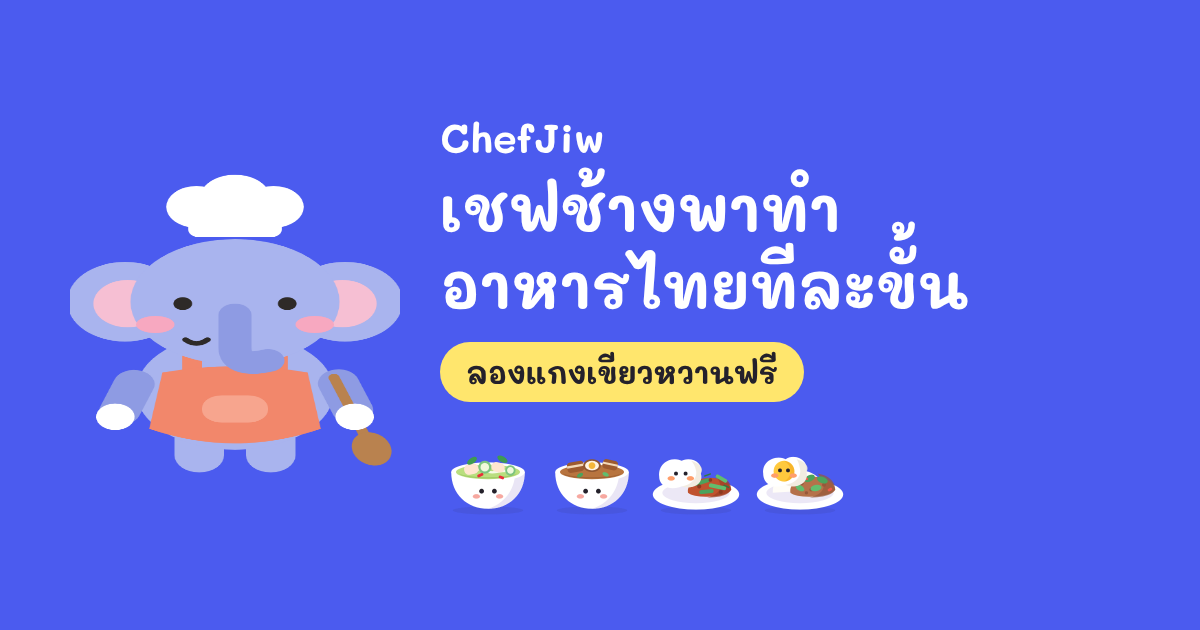
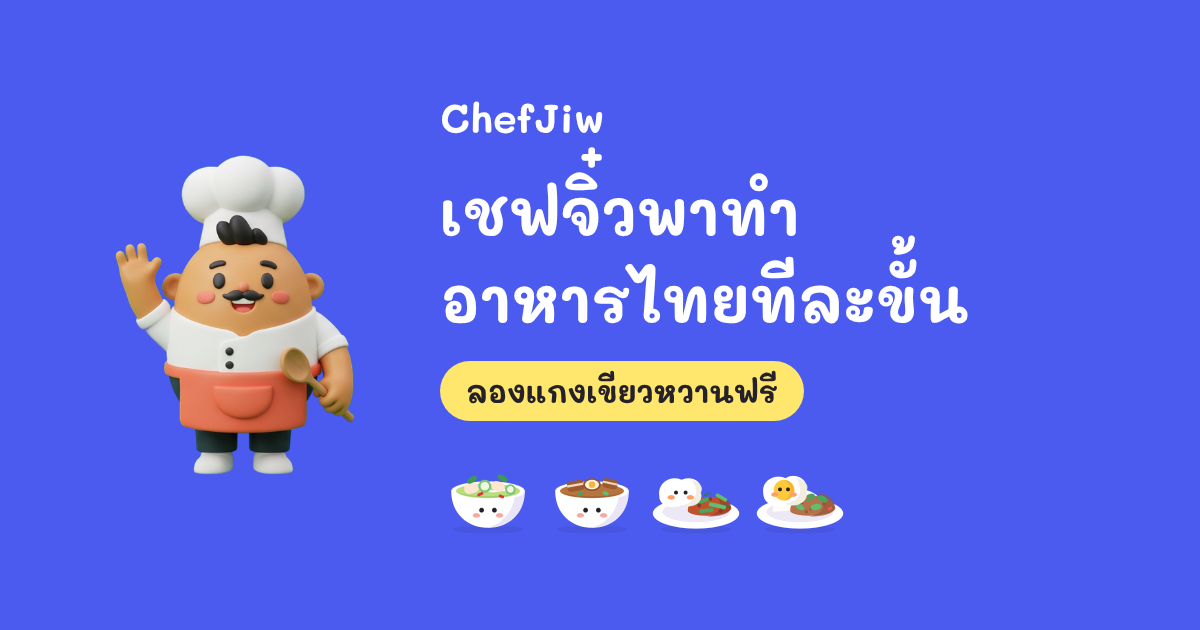
Replace the mascots with Chef Jiw, a 3D chef with six poses
The flat elephant sat in every screen header as decoration. The new
character is an original round 3D chef with one pose per moment: waving on
the home screen and onboarding, cheering when a timer ends or a dish is
finished, thinking while an answer loads, worried on errors, and tasting on
the score screen. Other headers no longer carry a mascot. The chef is
renamed from Chef Elephant to Chef Jiw across the app, the ask function's
prompt (redeployed) and the waitlist page, and the taster mouse is folded
into the same character.

Claude-Session: https://claude.ai/code/session_01YRit4BDrXmu1xBXH17a6cf

diff --git a/src/lib/i18n.ts b/src/lib/i18n.ts
@@ -5,7 +5,7 @@ export type L = { th: string; en: string };
 const th = {
   'tab.home': 'ร้าน', 'tab.recipes': 'สูตร', 'tab.cook': 'ทำอาหาร', 'tab.me': 'ฉัน',
   'home.title': 'ร้านของทีมเชฟ', 'home.today': 'เมนูแนะนำวันนี้', 'home.resume': 'ทำต่อจากที่ค้างไว้',
-  'home.resumeStep': 'ทำถึงขั้นที่ {n} จาก {total}', 'home.cooked': 'เมนูที่ทำแล้ว', 'home.next': 'อีกบทพูด', 'home.chef': 'เชฟช้าง',
+  'home.resumeStep': 'ทำถึงขั้นที่ {n} จาก {total}', 'home.cooked': 'เมนูที่ทำแล้ว', 'home.next': 'อีกบทพูด', 'home.chef': 'เชฟจิ๋ว',
   'recipes.title': 'วันนี้ทำอะไรดี?', 'recipes.sample': 'ราคาและแคลอรี่เป็นตัวเลขตัวอย่าง',
   'recipes.search': 'ค้นหาเมนู เช่น กะเพรา', 'recipes.all': 'ทั้งหมด', 'recipes.fast': 'ไม่เกิน 15 นาที',
   'recipes.cheap': 'ไม่เกิน {price}', 'recipes.light': 'แคลน้อย', 'recipes.count': 'ทำได้เลย {ready} เมนู · กำลังจะมา {soon} เมนู',
@@ -21,16 +21,16 @@ const th = {
   'cook.back': 'ย้อนงานก่อนหน้า', 'cook.see': 'สังเกต', 'cook.lesson': 'ทำแล้วได้อะไร', 'cook.gather': 'ของที่ต้องใช้',
   'cook.timer': 'จับเวลา', 'cook.timerStart': 'เริ่มจับเวลา {t}', 'cook.timerLeft': 'เหลือ {t}', 'cook.timerDone': 'ครบเวลาแล้ว ดูว่าได้ที่หรือยัง',
   'cook.timerNotify': 'ครบเวลาแล้ว', 'cook.heat0': 'ปิดไฟ', 'cook.heat1': 'ไฟอ่อน', 'cook.heat2': 'ไฟกลาง', 'cook.heat3': 'ไฟแรง',
-  'cook.exitTitle': 'ออกจากครัวก่อนไหม?', 'cook.exitBody': 'เชฟช้างจะจำไว้ว่าทำถึงไหน ตัวจับเวลาที่เริ่มไว้ยังเดินต่อ ระหว่างนี้ไปทำจานอื่นได้',
+  'cook.exitTitle': 'ออกจากครัวก่อนไหม?', 'cook.exitBody': 'เชฟจิ๋วจะจำไว้ว่าทำถึงไหน ตัวจับเวลาที่เริ่มไว้ยังเดินต่อ ระหว่างนี้ไปทำจานอื่นได้',
   'cook.exitStay': 'ทำต่อเลย', 'cook.exitLeave': 'ออกจากครัว', 'cook.close': 'ออกจากครัว',
-  'ask.title': 'ถามเชฟช้าง', 'ask.often': 'คำถามที่คนมักถามตอนทำขั้นนี้', 'ask.back': 'กลับไปทำต่อ',
+  'ask.title': 'ถามเชฟจิ๋ว', 'ask.often': 'คำถามที่คนมักถามตอนทำขั้นนี้', 'ask.back': 'กลับไปทำต่อ',
   'ask.emergency': 'เหตุฉุกเฉินในครัว',
-  'taste.title': 'นักชิมหนูจี๊ดขอชิมหน่อย', 'taste.intro': 'หนูจี๊ดชิมผ่านจอไม่ได้ เลยจะถามคุณ 3 ข้อ แล้วให้คะแนนพร้อมคำแนะนำ',
-  'taste.submit': 'ให้หนูจี๊ดให้คะแนน', 'taste.result': 'นักชิมหนูจี๊ดให้คะแนน', 'taste.outOf': 'เต็ม 5',
+  'taste.title': 'เชฟจิ๋วขอชิมหน่อย', 'taste.intro': 'เชฟจิ๋วชิมผ่านจอไม่ได้ เลยจะถามคุณ 3 ข้อ แล้วให้คะแนนพร้อมคำแนะนำ',
+  'taste.submit': 'ดูคะแนน', 'taste.result': 'เชฟจิ๋วให้คะแนน', 'taste.outOf': 'เต็ม 5',
   'taste.again': 'ทำเมนูอื่นต่อ', 'taste.home': 'กลับหน้าร้าน', 'taste.good': 'ดีแล้ว: {text}',
   'cookTab.title': 'ทำอาหาร', 'cookTab.pick': 'เลือกเมนูที่จะทำ', 'cookTab.hint': 'ระหว่างทำ หน้าจอจะไม่ดับเอง และปุ่มใหญ่กดง่ายแม้มือเปื้อน',
   'me.title': 'ครัวของฉัน', 'me.cooked': 'เมนูที่ทำแล้ว', 'me.avg': 'คะแนนเฉลี่ย', 'me.recent': 'ทำล่าสุด',
-  'me.none': 'ยังไม่ได้ทำเมนูไหน ทำเสร็จแล้วคะแนนจากนักชิมหนูจี๊ดจะมาอยู่ตรงนี้', 'me.settings': 'ตั้งค่า',
+  'me.none': 'ยังไม่ได้ทำเมนูไหน ทำเสร็จแล้วคะแนนจากเชฟจิ๋วจะมาอยู่ตรงนี้', 'me.settings': 'ตั้งค่า',
   'me.lang': 'ภาษา', 'me.country': 'ประเทศและสกุลเงิน', 'me.countryHint': 'ใช้กับราคาและเมนูแนะนำ', 'me.dark': 'โหมดมืด',
   'me.darkSystem': 'ตามเครื่อง', 'me.stars': '{n} ดาว',
   'country.TH': 'ไทย', 'country.JP': 'ญี่ปุ่น', 'country.US': 'สหรัฐฯ',
@@ -40,7 +40,7 @@ const th = {
   'err.notConfigured': 'ยังไม่ได้เชื่อมระบบ', 'err.notConfiguredBody': 'แอปเวอร์ชันนี้ยังไม่ได้ต่อ backend ส่วนนี้จะใช้ได้เมื่อตั้งค่าเซิร์ฟเวอร์แล้ว',
   'ob.skip': 'ข้าม', 'ob.next': 'ถัดไป', 'ob.back': 'ย้อนกลับ', 'ob.count': '{n} จาก {total}',
   'ob.langTitle': 'เลือกภาษาและประเทศ', 'ob.countryNote': 'ประเทศใช้กับสกุลเงินของราคาและเมนูแนะนำ เปลี่ยนทีหลังได้ในหน้าฉัน',
-  'ob.t1': 'เชฟช้างพาทำทีละขั้น', 'ob.b1': 'บอกว่าตอนนี้ต้องทำอะไร ใช้ไฟแรงแค่ไหน และจับเวลาให้ ไม่ต้องอ่านสูตรยาวๆ หน้าเตา',
+  'ob.t1': 'เชฟจิ๋วพาทำทีละขั้น', 'ob.b1': 'บอกว่าตอนนี้ต้องทำอะไร ใช้ไฟแรงแค่ไหน และจับเวลาให้ ไม่ต้องอ่านสูตรยาวๆ หน้าเตา',
   'ob.t2': 'ติดตรงไหน ถามเชฟได้เลย', 'ob.b2': 'ปุ่มถามเชฟอยู่ที่เดิมทุกขั้น พิมพ์ถามเองฟรีวันละ {n} คำถาม และยังไม่ต้องเข้าสู่ระบบจนกว่าจะพิมพ์ถามครั้งแรก',
   'ob.example': 'ตัวอย่าง: "กระเทียมไหม้แล้ว ทำยังไงต่อ"', 'ob.pickTitle': 'เริ่มจากเมนูไหนดี', 'ob.pickBody': 'สองเมนูนี้ทำตามในแอปได้ครบทุกขั้น',
   'ob.start': 'เริ่มทำเมนูแรก', 'ob.browse': 'ดูสูตรทั้งหมดก่อน', 'ob.picked': 'เลือกแล้ว',
@@ -55,9 +55,9 @@ const th = {
   'pay.priceMonthly': '[ราคารายเดือน]', 'pay.priceYearly': '[ราคารายปี]', 'pay.start': 'เริ่มเป็นสมาชิก{plan}', 'pay.busy': 'กำลังดำเนินการ',
   'pay.restore': 'คืนค่าการซื้อ', 'pay.note': 'ต่ออายุอัตโนมัติ ยกเลิกได้ทุกเมื่อในการตั้งค่าของร้านแอป ไม่สมัครก็ทำเมนูที่ค้างอยู่ต่อจนจบได้',
   'pay.done': 'เป็นสมาชิกแล้ว', 'pay.doneBody': 'ถามเชฟได้ไม่จำกัดตั้งแต่ตอนนี้', 'pay.back': 'กลับไปทำอาหารต่อ', 'pay.period': 'รอบการจ่าย',
-  'ask.typeLabel': 'พิมพ์ถามเชฟช้าง', 'ask.typePlaceholder': 'พิมพ์ถามเอง', 'ask.send': 'ส่งคำถาม',
-  'ask.left': 'วันนี้พิมพ์ถามเองฟรีได้อีก {n} คำถาม', 'ask.member': 'สมาชิก พิมพ์ถามได้ไม่จำกัด', 'ask.thinking': 'เชฟช้างกำลังคิด',
-  'ask.aiAnswer': 'เชฟช้างตอบ · AI', 'ask.loginTitle': 'เข้าสู่ระบบก่อนพิมพ์ถามเอง', 'ask.loginBody': 'คำถามด้านบนถามได้เลยโดยไม่ต้องเข้าสู่ระบบ',
+  'ask.typeLabel': 'พิมพ์ถามเชฟจิ๋ว', 'ask.typePlaceholder': 'พิมพ์ถามเอง', 'ask.send': 'ส่งคำถาม',
+  'ask.left': 'วันนี้พิมพ์ถามเองฟรีได้อีก {n} คำถาม', 'ask.member': 'สมาชิก พิมพ์ถามได้ไม่จำกัด', 'ask.thinking': 'เชฟจิ๋วกำลังคิด',
+  'ask.aiAnswer': 'เชฟจิ๋วตอบ · AI', 'ask.loginTitle': 'เข้าสู่ระบบก่อนพิมพ์ถามเอง', 'ask.loginBody': 'คำถามด้านบนถามได้เลยโดยไม่ต้องเข้าสู่ระบบ',
   'ask.quotaTitle': 'คำถามฟรีของวันนี้หมดแล้ว', 'ask.quotaBody': 'พรุ่งนี้ถามฟรีได้ใหม่ {n} คำถาม คำตอบที่เตรียมไว้ด้านบนยังเปิดดูได้ และทำเมนูนี้ต่อจนจบได้',
   'ask.seeMember': 'ดูสมาชิก ถามได้ไม่จำกัด', 'ask.aiNote': 'คำตอบจาก AI ยังไม่ผ่านการตรวจโดยเชฟ ถ้าเกี่ยวกับความปลอดภัยให้ดูเหตุฉุกเฉินด้านบน',
   'ai.ideas': 'ให้ AI คิดเมนูจากของที่มี', 'ai.again': 'ให้ AI คิดใหม่อีกรอบ', 'ai.thinking': 'เชฟ AI กำลังคิดเมนู', 'ai.result': 'เมนูที่ AI คิดจากของที่คุณมี',
@@ -79,7 +79,7 @@ const th = {
 const en: typeof th = {
   'tab.home': 'Home', 'tab.recipes': 'Recipes', 'tab.cook': 'Cook', 'tab.me': 'Me',
   'home.title': "The chef team's kitchen", 'home.today': "Today's pick", 'home.resume': 'Pick up where you left off',
-  'home.resumeStep': 'Step {n} of {total}', 'home.cooked': 'Dishes cooked', 'home.next': 'Another line', 'home.chef': 'Chef Elephant',
+  'home.resumeStep': 'Step {n} of {total}', 'home.cooked': 'Dishes cooked', 'home.next': 'Another line', 'home.chef': 'Chef Jiw',
   'recipes.title': "What's cooking?", 'recipes.sample': 'Sample prices and calories',
   'recipes.search': 'Search dishes, e.g. basil pork', 'recipes.all': 'All', 'recipes.fast': 'Up to 15 min',
   'recipes.cheap': 'Up to {price}', 'recipes.light': 'Low calorie', 'recipes.count': 'Ready now: {ready} · coming soon: {soon}',
@@ -95,16 +95,16 @@ const en: typeof th = {
   'cook.back': 'Back to previous task', 'cook.see': 'Look for', 'cook.lesson': 'What that did', 'cook.gather': 'You need',
   'cook.timer': 'Timer', 'cook.timerStart': 'Start timer {t}', 'cook.timerLeft': '{t} left', 'cook.timerDone': "Time's up. Check if it's ready.",
   'cook.timerNotify': "Time's up", 'cook.heat0': 'Heat off', 'cook.heat1': 'Low heat', 'cook.heat2': 'Medium heat', 'cook.heat3': 'High heat',
-  'cook.exitTitle': 'Leave the kitchen?', 'cook.exitBody': 'Chef Elephant will remember your step, and any timer you started keeps running. You can cook another dish meanwhile.',
+  'cook.exitTitle': 'Leave the kitchen?', 'cook.exitBody': 'Chef Jiw will remember your step, and any timer you started keeps running. You can cook another dish meanwhile.',
   'cook.exitStay': 'Keep cooking', 'cook.exitLeave': 'Leave', 'cook.close': 'Leave the kitchen',
-  'ask.title': 'Ask Chef Elephant', 'ask.often': 'Questions people often ask at this step', 'ask.back': 'Back to cooking',
+  'ask.title': 'Ask Chef Jiw', 'ask.often': 'Questions people often ask at this step', 'ask.back': 'Back to cooking',
   'ask.emergency': 'Kitchen emergencies',
-  'taste.title': 'Taster Mouse wants a bite', 'taste.intro': "Mouse can't taste through the screen, so answer 3 questions for a score and tips.",
-  'taste.submit': 'Get my score', 'taste.result': "Taster Mouse's score", 'taste.outOf': 'out of 5',
+  'taste.title': 'Chef Jiw wants a taste', 'taste.intro': "Chef Jiw can't taste through the screen, so answer 3 questions for a score and tips.",
+  'taste.submit': 'Get my score', 'taste.result': "Chef Jiw's score", 'taste.outOf': 'out of 5',
   'taste.again': 'Cook another dish', 'taste.home': 'Back to Home', 'taste.good': 'Nice: {text}',
   'cookTab.title': 'Cook', 'cookTab.pick': 'Pick a dish to cook', 'cookTab.hint': 'While cooking, the screen stays on and the big buttons work even with messy hands.',
   'me.title': 'My kitchen', 'me.cooked': 'Dishes cooked', 'me.avg': 'Average score', 'me.recent': 'Cooked recently',
-  'me.none': "Nothing cooked yet. Taster Mouse's scores will show up here.", 'me.settings': 'Settings',
+  'me.none': "Nothing cooked yet. Chef Jiw's scores will show up here.", 'me.settings': 'Settings',
   'me.lang': 'Language', 'me.country': 'Country and currency', 'me.countryHint': 'Used for prices and suggestions', 'me.dark': 'Dark mode',
   'me.darkSystem': 'Follow device', 'me.stars': '{n} stars',
   'country.TH': 'Thailand', 'country.JP': 'Japan', 'country.US': 'United States',
@@ -114,7 +114,7 @@ const en: typeof th = {
   'err.notConfigured': 'Not connected yet', 'err.notConfiguredBody': 'This build has no backend yet. This part works once the server is set up.',
   'ob.skip': 'Skip', 'ob.next': 'Next', 'ob.back': 'Back', 'ob.count': '{n} of {total}',
   'ob.langTitle': 'Language and country', 'ob.countryNote': 'Your country sets the currency for prices and suggested dishes. Change it later in Me.',
-  'ob.t1': 'Chef Elephant guides each step', 'ob.b1': 'See what to do now, how high the heat should be, and a timer. No long recipe to read at the stove.',
+  'ob.t1': 'Chef Jiw guides each step', 'ob.b1': 'See what to do now, how high the heat should be, and a timer. No long recipe to read at the stove.',
   'ob.t2': 'Stuck? Ask the chef', 'ob.b2': 'The ask button stays in the same place on every step. Type {n} free questions a day, and sign in only when you first type one.',
   'ob.example': 'Example: "My garlic burnt. What now?"', 'ob.pickTitle': 'Pick your first dish', 'ob.pickBody': 'Both dishes have full step-by-step guidance.',
   'ob.start': 'Start cooking', 'ob.browse': 'Browse all recipes first', 'ob.picked': 'Selected',
@@ -129,9 +129,9 @@ const en: typeof th = {
   'pay.priceMonthly': '[monthly price]', 'pay.priceYearly': '[yearly price]', 'pay.start': 'Start membership: {plan}', 'pay.busy': 'Processing',
   'pay.restore': 'Restore purchase', 'pay.note': 'Renews automatically. Cancel any time in your app store settings. You can finish the dish you are cooking without joining.',
   'pay.done': 'You are a member', 'pay.doneBody': 'Ask the chef without limits from now on', 'pay.back': 'Back to cooking', 'pay.period': 'Billing period',
-  'ask.typeLabel': 'Type a question for Chef Elephant', 'ask.typePlaceholder': 'Type your own', 'ask.send': 'Send question',
-  'ask.left': '{n} free typed questions left today', 'ask.member': 'Member: unlimited typed questions', 'ask.thinking': 'Chef Elephant is thinking',
-  'ask.aiAnswer': 'Chef Elephant answers · AI', 'ask.loginTitle': 'Sign in to type your own question', 'ask.loginBody': 'The questions above work without signing in.',
+  'ask.typeLabel': 'Type a question for Chef Jiw', 'ask.typePlaceholder': 'Type your own', 'ask.send': 'Send question',
+  'ask.left': '{n} free typed questions left today', 'ask.member': 'Member: unlimited typed questions', 'ask.thinking': 'Chef Jiw is thinking',
+  'ask.aiAnswer': 'Chef Jiw answers · AI', 'ask.loginTitle': 'Sign in to type your own question', 'ask.loginBody': 'The questions above work without signing in.',
   'ask.quotaTitle': 'Free questions used up for today', 'ask.quotaBody': 'You get {n} more tomorrow. Prepared answers above still work, and you can finish this dish.',
   'ask.seeMember': 'See membership for unlimited', 'ask.aiNote': 'AI answers are not checked by a chef. For safety issues, see Kitchen emergencies above.',
   'ai.ideas': 'Let AI plan dishes from these', 'ai.again': 'Ask the AI again', 'ai.thinking': 'The AI chef is thinking of dishes', 'ai.result': 'Dishes the AI planned from what you have',

diff --git a/waitlist/index.html b/waitlist/index.html
@@ -5,11 +5,11 @@
 <meta name="viewport" content="width=device-width, initial-scale=1">
 <meta name="color-scheme" content="light">
 <meta name="theme-color" content="#4B5BEF">
-<title>ChefJiw: เชฟช้างพาทำอาหารไทยทีละขั้น</title>
+<title>ChefJiw: เชฟจิ๋วพาทำอาหารไทยทีละขั้น</title>
 <meta name="description" content="แอปสอนทำอาหารไทยทีละขั้น ลองแกงเขียวหวานฟรี ชุด 12 จาน 99 บาท จ่ายครั้งเดียว ลงชื่อรอเปิดตัวหรือสั่งจองได้แล้ว">
 <meta property="og:type" content="website">
 <meta property="og:locale" content="th_TH">
-<meta property="og:title" content="ChefJiw: เชฟช้างพาทำอาหารไทยทีละขั้น">
+<meta property="og:title" content="ChefJiw: เชฟจิ๋วพาทำอาหารไทยทีละขั้น">
 <meta property="og:description" content="ลองแกงเขียวหวานฟรี ชุด 12 จาน 99 บาท จ่ายครั้งเดียว ลงชื่อรอเปิดตัวหรือสั่งจองได้แล้ว">
 <!-- Facebook และ LINE ต้องการ URL เต็ม: ได้โดเมนจริงแล้วแก้เป็น https://<โดเมน>/img/og.png -->
 <meta property="og:image" content="img/og.png">
@@ -32,7 +32,7 @@
   .banner { background: #FFE3D6; color: var(--bad); font-weight: 700; padding: 12px 16px; text-align: center; }
   .hero { background: var(--hero); color: #FFFFFF; padding: 28px 0 32px; border-radius: 0 0 32px 32px; }
   .hero .small { color: #FFFFFF; }
-  .hero img { display: block; width: 112px; height: 112px; }
+  .hero img { display: block; width: 128px; height: 128px; }
   .brand { font-size: 18px; margin: 0; }
   .ctas { display: grid; gap: 10px; margin: 20px 0 14px; }
   .btn { display: flex; align-items: center; justify-content: center; min-height: 54px; padding: 10px 22px; border-radius: 999px; border: 0; font-size: 18px; text-decoration: none; cursor: pointer; text-align: center; }
@@ -76,10 +76,10 @@
 <div class="banner" id="setup" hidden>ยังตั้งค่าไม่ครบ: ใส่เลขพร้อมเพย์ ชื่อบัญชี และช่องทางติดต่อใน CONFIG ท้ายไฟล์ ก่อนแชร์หน้านี้</div>
 <header class="hero">
   <div class="wrap">
-    <img src="img/elephant.png" alt="" width="112" height="112">
+    <img src="img/chef.png" alt="" width="128" height="128">
     <p class="brand">ChefJiw</p>
     <h1>ทำกับข้าวให้ออกมาอร่อย ตั้งแต่ครั้งแรกที่ลอง</h1>
-    <p>เชฟช้างพาทำอาหารไทยทีละขั้นบนมือถือ บอกว่าต้องทำอะไรตอนนี้ ไฟแรงแค่ไหน จับเวลาให้ และบอกว่าต้องดูอะไรถึงจะไปขั้นต่อไปได้</p>
+    <p>เชฟจิ๋วพาทำอาหารไทยทีละขั้นบนมือถือ บอกว่าต้องทำอะไรตอนนี้ ไฟแรงแค่ไหน จับเวลาให้ และบอกว่าต้องดูอะไรถึงจะไปขั้นต่อไปได้</p>
     <div class="ctas">
       <a class="btn yellow" href="#join">ลงชื่อรอเปิดตัว ฟรี</a>
       <a class="btn white" href="#preorder">สั่งจองชุด 12 จาน 99 บาท</a>
@@ -92,7 +92,7 @@
   <section>
     <h2>ลองฟรีก่อนจ่าย</h2>
     <div class="dish"><img src="img/dish-kaprao.png" alt=""><div><b>กะเพราหมูสับไข่ดาว</b><span>15 นาที เหมาะเป็นจานแรกของมือใหม่</span></div></div>
-    <div class="dish"><img src="img/dish-green-curry.png" alt=""><div><b>แกงเขียวหวานไก่จากพริกแกง</b><span>จานที่คนทำตามคลิปแล้วพลาดบ่อยที่สุด ลองดูว่าเชฟช้างสอนได้ดีกว่าไหม ก่อนจ่ายสักบาท</span></div></div>
+    <div class="dish"><img src="img/dish-green-curry.png" alt=""><div><b>แกงเขียวหวานไก่จากพริกแกง</b><span>จานที่คนทำตามคลิปแล้วพลาดบ่อยที่สุด ลองดูว่าเชฟจิ๋วสอนได้ดีกว่าไหม ก่อนจ่ายสักบาท</span></div></div>
     <p>ติดตรงไหนกด "ถามเชฟ" พิมพ์ถามได้ฟรีวันละ 3 คำถาม และทุกขั้นมีคำตอบสำหรับปัญหาที่เจอบ่อยเตรียมไว้ให้แล้ว</p>
   </section>
 

diff --git a/src/components/ui.tsx b/src/components/ui.tsx
@@ -5,6 +5,7 @@ import { AccessibilityInfo, Animated, Easing, Modal, Platform, Pressable, Scroll
 import { useSafeAreaInsets } from 'react-native-safe-area-context';
 
 import { Icon, type IconName } from '@/components/icon';
+import { MASCOT } from '@/data/images';
 import type { ApiErrorKind } from '@/lib/api';
 import { BETA } from '@/lib/beta';
 import { FREE_PER_DAY } from '@/lib/quota';
@@ -140,7 +141,10 @@ export function Skeleton({ lines = 2, label }: { lines?: number; label: string }
   const { colors } = useSettings();
   return (
     <View accessible accessibilityRole="progressbar" accessibilityLabel={label} style={[s.card, { backgroundColor: colors.surfaceSoft, gap: space.sm }]}>
-      <T v="smallBold" tone="muted">{label}</T>
+      <View style={{ flexDirection: 'row', alignItems: 'center', gap: space.sm }}>
+        <Image source={MASCOT.think} style={{ width: 48, height: 48 }} contentFit="contain" accessible={false} />
+        <T v="smallBold" tone="muted">{label}</T>
+      </View>
       {Array.from({ length: lines }, (_, k) => <View key={k} style={{ height: 14, width: k === lines - 1 ? '60%' : '100%', borderRadius: radius.pill, backgroundColor: colors.line }} />)}
     </View>
   );
@@ -156,9 +160,12 @@ export function ApiNotice({ kind, onRetry }: { kind: ApiErrorKind; onRetry?: () 
   }[kind];
   return (
     <Card tone={kind === 'offline' ? 'note' : 'danger'} style={{ gap: space.sm }}>
-      <View accessibilityRole="alert" accessibilityLiveRegion="polite">
-        <T v="subheading" style={{ color: kind === 'offline' ? onPastel.ink : onPastel.warn }}>{title}</T>
-        <T tone="pastel">{body}</T>
+      <View style={{ flexDirection: 'row', alignItems: 'center', gap: space.md }}>
+        <View accessibilityRole="alert" accessibilityLiveRegion="polite" style={{ flex: 1 }}>
+          <T v="subheading" style={{ color: kind === 'offline' ? onPastel.ink : onPastel.warn }}>{title}</T>
+          <T tone="pastel">{body}</T>
+        </View>
+        <Image source={MASCOT.oops} style={{ width: 72, height: 72 }} contentFit="contain" accessible={false} />
       </View>
       {onRetry && (kind === 'offline' || kind === 'failed') && <Button kind="onPastel" label={t('common.retry')} onPress={onRetry} style={{ alignSelf: 'flex-start' }} />}
       {kind === 'unauthorized' && <Button kind="onPastel" label={t('me.signIn')} onPress={() => router.push('/login')} style={{ alignSelf: 'flex-start' }} />}
@@ -189,7 +196,7 @@ const s = StyleSheet.create({
   card: { borderRadius: radius.lg, padding: space.lg, gap: space.xs },
   pill: { backgroundColor: '#FFFFFF', borderRadius: radius.pill, paddingHorizontal: space.md, minHeight: 30, justifyContent: 'center' },
   header: { flexDirection: 'row', alignItems: 'flex-end', paddingHorizontal: space.lg, paddingBottom: space.lg, gap: space.md },
-  mascot: { width: 96, height: 139 },
+  mascot: { width: 128, height: 128 },
   sheet: { flex: 1, borderTopLeftRadius: 32, borderTopRightRadius: 32, overflow: 'hidden' },
   footer: { position: 'absolute', left: 0, right: 0, bottom: 0, paddingHorizontal: space.lg, paddingTop: space.sm },
   scrim: { flex: 1, backgroundColor: 'rgba(0,0,0,0.45)' },

diff --git a/src/app/(tabs)/index.tsx b/src/app/(tabs)/index.tsx
@@ -13,7 +13,7 @@ import type { L } from '@/lib/i18n';
 import { useSettings } from '@/lib/settings';
 import { radius, space } from '@/theme/tokens';
 
-// บทพูดเชฟช้างจากหน้าร้านในต้นแบบ
+// บทพูดเชฟจิ๋วจากหน้าร้านในต้นแบบ
 const LINES: L[] = [
   { th: 'ยินดีต้อนรับ! วันนี้ทำกะเพราหมูสับไข่ดาวกันไหม?', en: 'Welcome! Shall we make basil pork with fried egg today?' },
   { th: 'ใช้เวลา 15 นาที เดี๋ยวพาทำทีละขั้น', en: 'It takes 15 minutes. I will guide you step by step.' },
@@ -27,7 +27,7 @@ export default function Home() {
   const [line, setLine] = useState(0);
   const pickToday = MENU[0];
   return (
-    <Screen tint={colors.header.home} title={t('home.title')} mascot={MASCOT.elephant}>
+    <Screen tint={colors.header.home} title={t('home.title')} mascot={MASCOT.hi}>
       {/* จุดเด่นของจอ: จานแนะนำวันนี้ พร้อมบทพูดของเชฟและปุ่มเริ่มทำ */}
       <Card tone="coral" style={{ gap: space.md }}>
         <View style={{ flexDirection: 'row', alignItems: 'center', gap: space.md }}>
@@ -79,7 +79,7 @@ export default function Home() {
           <T v="hero" tone="pastel">{runs.length}</T>
           <T v="bodyBold" tone="pastel">{t('home.cooked')}</T>
         </View>
-        <Image source={MASCOT.mouse} style={{ width: 64, height: 92 }} contentFit="contain" accessible={false} />
+        <Image source={runs.length ? MASCOT.cheer : MASCOT.cook} style={{ width: 96, height: 96 }} contentFit="contain" accessible={false} />
       </Card>
     </Screen>
   );

diff --git a/src/app/cook/[id].tsx b/src/app/cook/[id].tsx
@@ -187,8 +187,10 @@ function Timer({ seconds, name, endAt, onStart, t }: { seconds: number; name: st
           <Circle cx={RING / 2} cy={RING / 2} r={RING_R} stroke={done ? onPastel.success : vivid.indigo} strokeWidth={14} strokeLinecap="round" fill="none"
             strokeDasharray={RING_C} strokeDashoffset={RING_C * (1 - Math.max(0, Math.min(1, left / seconds)))} />
         </Svg>
-        <T v="smallBold" tone="pastelMuted">{t('cook.timer')}</T>
-        <T v="hero" tone="pastel" accessibilityRole="header">{mmss(left)}</T>
+        {done ? <Image source={MASCOT.cheer} style={{ width: 124, height: 124 }} contentFit="contain" accessible={false} /> : <>
+          <T v="smallBold" tone="pastelMuted">{t('cook.timer')}</T>
+          <T v="hero" tone="pastel" accessibilityRole="header">{mmss(left)}</T>
+        </>}
       </View>
       {done ? <T v="bodyBold" tone="pastel">{t('cook.timerDone')}</T>
         : !endAt ? <Button label={t('cook.timerStart', { t: mmss(seconds) })} kind="onPastel" onPress={startTimer} />
@@ -299,7 +301,7 @@ function Taste({ r }: { r: Recipe }) {
           <T v="title" accessibilityRole="header">{score === null ? t('taste.title') : t('taste.result')}</T>
           {score === null && <T tone="muted">{t('taste.intro')}</T>}
         </View>
-        <Image source={MASCOT.mouse} style={{ width: 96, height: 139 }} contentFit="contain" accessible={false} />
+        <Image source={score === null ? MASCOT.taste : MASCOT.cheer} style={{ width: 120, height: 120 }} contentFit="contain" accessible={false} />
       </View>
       {score !== null && (
         <Card tone="accent" style={{ alignItems: 'center' }}>

diff --git a/supabase/functions/ask/index.ts b/supabase/functions/ask/index.ts
@@ -1,7 +1,7 @@
-// ถามเชฟช้าง: ต้องเข้าสู่ระบบ ฟรีวันละ FREE_PER_DAY คำถาม สมาชิกไม่จำกัด คำถามที่ล้มเหลวคืนสิทธิ์
+// ถามเชฟจิ๋ว: ต้องเข้าสู่ระบบ ฟรีวันละ FREE_PER_DAY คำถาม สมาชิกไม่จำกัด คำถามที่ล้มเหลวคืนสิทธิ์
 import { admin, chat, cors, FREE_PER_DAY, isLang, isText, json, localDay, MODELS, requireUser } from '../_shared/common.ts';
 
-const SYSTEM = `You are Chef Elephant, the cooking coach inside a step-by-step cooking app for home cooks in Thailand and beyond.
+const SYSTEM = `You are Chef Jiw, the cooking coach inside a step-by-step cooking app for home cooks in Thailand and beyond.
 The person is cooking right now, often with messy hands, so answer in 2 to 4 short, plain sentences they can act on at the stove.
 Answer only about cooking, ingredients, kitchen technique and kitchen safety. If the question is about something else, say briefly that you can only help with cooking.
 If the question involves fire, burns, gas, injury or food poisoning, give the immediate safe action first and tell them to call local emergency services when it is serious. Never guess about allergies or medical issues; tell them to check with a doctor.

diff --git a/src/app/onboarding.tsx b/src/app/onboarding.tsx
@@ -36,7 +36,7 @@ export default function Onboarding() {
       <View style={[s.top, { paddingTop: insets.top + space.md }]}>
         <Button kind={isDark ? 'secondary' : 'onPastelLight'} label={t('ob.skip')} onPress={() => finish('/')} />
       </View>
-      <Image source={MASCOT.elephant} style={s.mascot} contentFit="contain" accessible={false} />
+      <Image source={MASCOT.hi} style={s.mascot} contentFit="contain" accessible={false} />
       <View style={[s.sheet, { backgroundColor: colors.bg, paddingBottom: Math.max(insets.bottom, space.lg) }]}>
         <ScrollView contentContainerStyle={{ gap: space.md }}>
           <View style={{ flexDirection: 'row', alignItems: 'center', gap: space.sm }} accessibilityLabel={t('ob.count', { n: step + 1, total: 4 })}>
@@ -97,7 +97,7 @@ export default function Onboarding() {
 
 const s = StyleSheet.create({
   top: { alignItems: 'flex-end', paddingHorizontal: space.lg },
-  mascot: { width: 150, height: 218, alignSelf: 'center' },
+  mascot: { width: 200, height: 200, alignSelf: 'center' },
   sheet: { flex: 1, borderTopLeftRadius: radius.lg, borderTopRightRadius: radius.lg, padding: space.lg },
   row: { flexDirection: 'row', flexWrap: 'wrap', gap: space.sm },
   dish: { flexDirection: 'row', alignItems: 'center', gap: space.md, padding: space.sm, paddingRight: space.lg, borderRadius: radius.lg, borderWidth: 3 },

diff --git a/src/app/(tabs)/recipes.tsx b/src/app/(tabs)/recipes.tsx
@@ -4,7 +4,7 @@ import { Pressable, ScrollView, StyleSheet, TextInput, View } from 'react-native
 import { DishCard } from '@/components/dish-card';
 import { Icon } from '@/components/icon';
 import { ApiNotice, Button, Card, Chip, Screen, Skeleton, T, Thumb } from '@/components/ui';
-import { DISH_TINT, IMG, MASCOT } from '@/data/images';
+import { DISH_TINT, IMG } from '@/data/images';
 import { fridgeFit, MENU, PANTRY, type MenuItem } from '@/data/recipes';
 import { api, ApiError, type ApiErrorKind, type MenuIdea } from '@/lib/api';
 import { BETA } from '@/lib/beta';
@@ -47,7 +47,7 @@ export default function Recipes() {
   const filters: [Filter, string][] = [['all', t('recipes.all')], ['fast', t('recipes.fast')], ['cheap', t('recipes.cheap', { price: price(40) })], ['light', t('recipes.light')]];
 
   return (
-    <Screen tint={colors.header.recipes} title={t('recipes.title')} subtitle={t('recipes.sample')} mascot={MASCOT.elephant}>
+    <Screen tint={colors.header.recipes} title={t('recipes.title')} subtitle={t('recipes.sample')}>
       <View style={[s.search, { backgroundColor: colors.surfaceSoft }]}>
         <Icon name="search" color={colors.muted} />
         <TextInput value={q} onChangeText={setQ} placeholder={t('recipes.search')} placeholderTextColor={colors.muted} accessibilityLabel={t('recipes.search')}

diff --git a/src/data/images.ts b/src/data/images.ts
@@ -30,8 +30,13 @@ export const DISH_TINT: Record<string, string> = {
   'green-curry': '#8FDB8A', 'moo-palo': '#A7B0FF', 'prik-khing': '#FFB35C',
 };
 
+// เชฟจิ๋ว ตัวละครหลัก หนึ่งท่าต่อหนึ่งจังหวะ ใช้เฉพาะตอนที่ท่านั้นมีความหมาย ไม่แปะทุกหน้า
 export const MASCOT = {
-  elephant: require('@/assets/images/mascot/elephant.png'),
-  mouse: require('@/assets/images/mascot/mouse.png'),
+  hi: require('@/assets/images/chef/hi.png'), // ทักทาย: หน้าร้าน หน้าแนะนำแอป
+  cook: require('@/assets/images/chef/cook.png'), // ยังไม่เคยทำจานไหน
+  cheer: require('@/assets/images/chef/cheer.png'), // สำเร็จ: ครบเวลา ทำจบจาน
+  think: require('@/assets/images/chef/think.png'), // กำลังรอคำตอบ
+  oops: require('@/assets/images/chef/oops.png'), // มีอะไรผิดพลาด
+  taste: require('@/assets/images/chef/taste.png'), // ชิมให้คะแนน
   capybara: require('@/assets/images/mascot/capybara.png'),
 };

diff --git a/src/app/(tabs)/me.tsx b/src/app/(tabs)/me.tsx
@@ -3,7 +3,7 @@ import { Pressable, Switch, View } from 'react-native';
 
 import { Icon } from '@/components/icon';
 import { Card, Screen, T, Thumb } from '@/components/ui';
-import { IMG, MASCOT } from '@/data/images';
+import { IMG } from '@/data/images';
 import { MENU } from '@/data/recipes';
 import { BETA } from '@/lib/beta';
 import { COUNTRIES } from '@/lib/money';
@@ -30,7 +30,7 @@ export default function Me() {
   const { colors, t, pick, lang, country, theme, isDark, runs, set, signedIn, member } = useSettings();
   const avg = runs.length ? (runs.reduce((s, r) => s + r.score, 0) / runs.length).toFixed(1) : '–';
   return (
-    <Screen tint={colors.header.me} title={t('me.title')} mascot={MASCOT.elephant}>
+    <Screen tint={colors.header.me} title={t('me.title')}>
       <View style={{ flexDirection: 'row', gap: space.sm }}>
         <Card tone="mint" style={{ flex: 1 }}><T v="hero" tone="pastel">{runs.length}</T><T v="smallBold" tone="pastel">{t('me.cooked')}</T></Card>
         <Card tone="accent" style={{ flex: 1 }}><T v="hero" tone="pastel">{avg}</T><T v="smallBold" tone="pastel">{t('me.avg')}</T></Card>

diff --git a/src/app/login.tsx b/src/app/login.tsx
@@ -4,7 +4,6 @@ import { View } from 'react-native';
 
 import { Icon } from '@/components/icon';
 import { ApiNotice, Button, Card, Screen, T } from '@/components/ui';
-import { MASCOT } from '@/data/images';
 import { api, ApiError, type ApiErrorKind, type Provider } from '@/lib/api';
 import { FREE_PER_DAY, freeLeft, localDay } from '@/lib/quota';
 import { useSettings } from '@/lib/settings';
@@ -32,7 +31,7 @@ export default function Login() {
   const signOut = async () => { await api.signOut(); set({ signedIn: false, member: false }); };
 
   return (
-    <Screen tint={isDark ? colors.bg : colors.ai} title={signedIn ? t('login.done') : t('login.title')} mascot={MASCOT.elephant} onBack={close} backLabel={t('login.close')}>
+    <Screen tint={isDark ? colors.bg : colors.ai} title={signedIn ? t('login.done') : t('login.title')} onBack={close} backLabel={t('login.close')}>
       {signedIn ? (
         <>
           <Card tone="done"><T v="subheading" tone="pastel">{t('login.doneBody', { n: freeLeft(asked, localDay()) })}</T></Card>

diff --git a/src/app/paywall.tsx b/src/app/paywall.tsx
@@ -3,7 +3,6 @@ import { useState } from 'react';
 import { Pressable, StyleSheet, View } from 'react-native';
 
 import { ApiNotice, Button, Card, Screen, T } from '@/components/ui';
-import { MASCOT } from '@/data/images';
 import { api, ApiError, type ApiErrorKind, type Plan } from '@/lib/api';
 import { FREE_PER_DAY } from '@/lib/quota';
 import { useSettings } from '@/lib/settings';
@@ -37,7 +36,7 @@ export default function Paywall() {
   const plans: [Plan, string, string][] = [['monthly', t('pay.monthly'), t('pay.priceMonthly')], ['yearly', t('pay.yearly'), t('pay.priceYearly')]];
 
   return (
-    <Screen tint={colors.header.cook} title={t('pay.title')} subtitle={t('pay.sub')} mascot={MASCOT.elephant} onBack={close} backLabel={t('login.close')}>
+    <Screen tint={colors.header.cook} title={t('pay.title')} subtitle={t('pay.sub')} onBack={close} backLabel={t('login.close')}>
       <Card>
         <View style={s.tr}>
           <T v="smallBold" tone="muted" style={{ flex: 1 }}>{t('pay.what')}</T>
